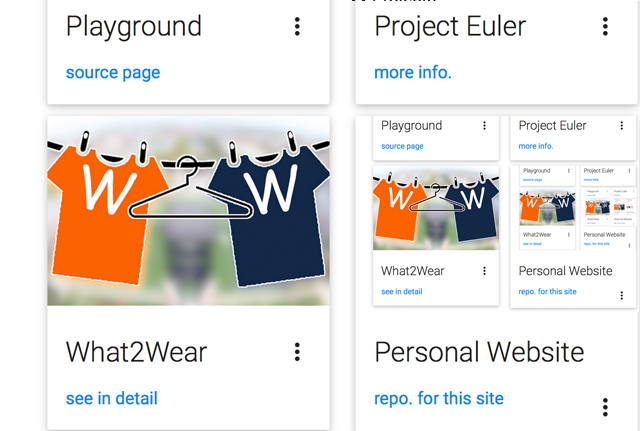
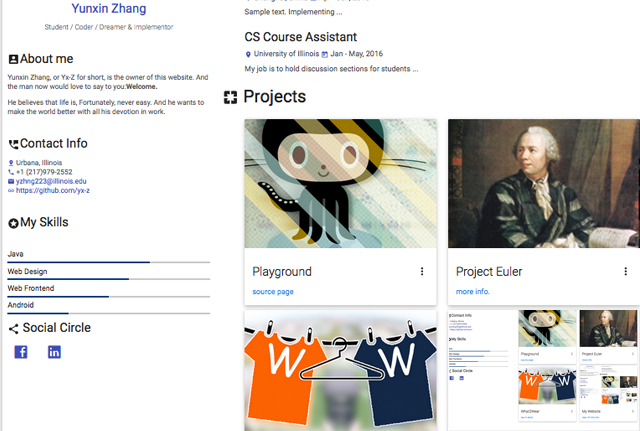
pic updated

diff --git a/index.html b/index.html
@@ -224,7 +224,7 @@
                                     <div class="card-image">
                                         <img src="assets/images/website.jpg" alt="website"/>
                                         <div class="card-content">
-                                            <span class="card-title grey-text darken-4">Personal Website 
+                                            <span class="card-title grey-text darken-4">My Website 
                                                 <i class="mdi-navigation-more-vert right"></i>
                                             </span>
                                             <p>
@@ -232,7 +232,7 @@
                                             </p>
                                         </div>
                                         <div class="card-reveal">
-                                            <span class="card-title grey-text darken-4">My Site 
+                                            <span class="card-title grey-text darken-4">AKA This Site 
                                                 <i class="mdi-navigation-close right"></i>
                                             </span>
                                             <p>I just want to show this funny picture :)</p>
